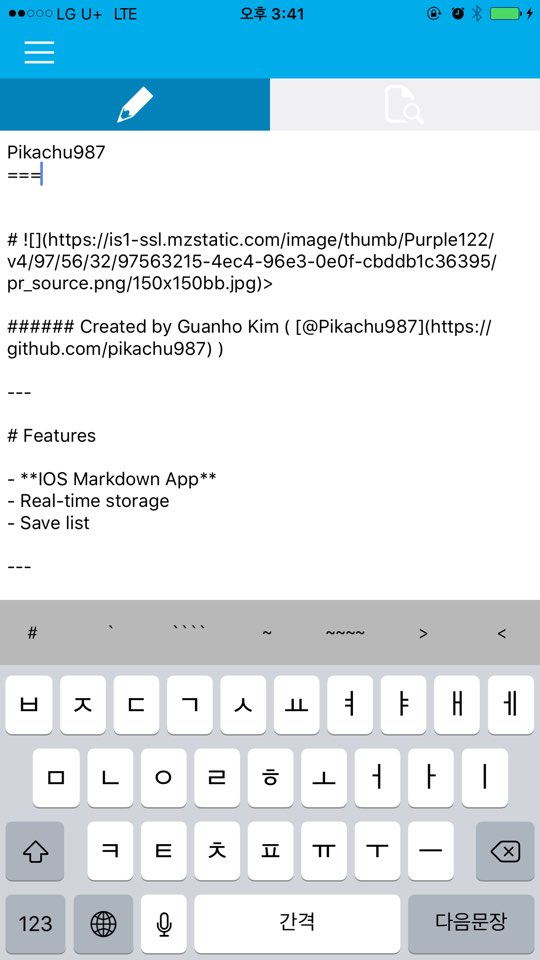
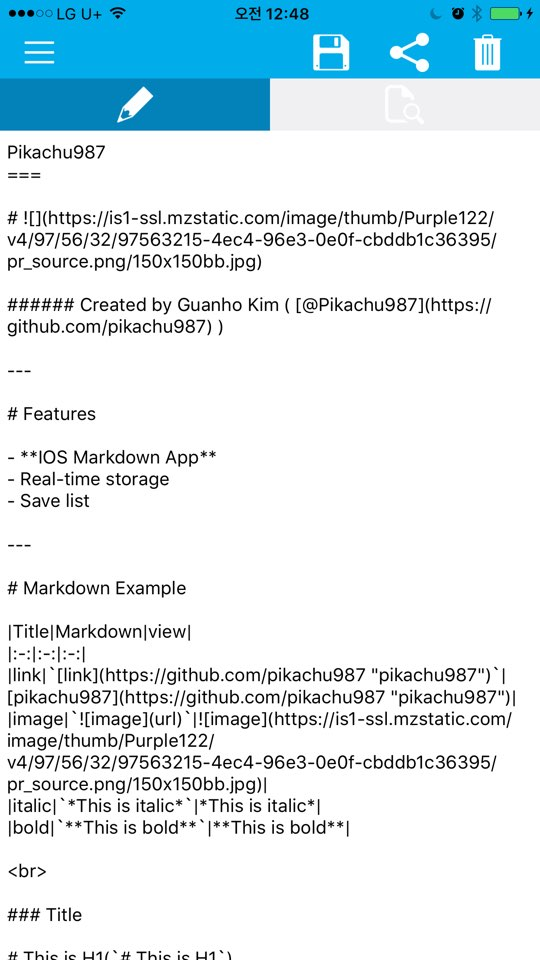
Update

diff --git a/index.md b/index.md
@@ -149,13 +149,14 @@ __Markdown: 마크다운 앱__
 ● 마크다운을 적을수 있다.<br>
 ● 마크다운을 적기 편하게 키보드 상단에 여러가지 버튼이 있다.<br>
 ● 마크다운을 적으면서 마크다운 미리보기를 할 수 있다.<br>
-● 마크다운을 저장할 수 있다.(개발중)<br>
-● 마크다운을 공유할 수 있다.(개발중)<br>
+● 마크다운을 저장할 수 있다.<br>
+● 마크다운을 공유할 수 있다.<br>
 
 `이미지`
 
 <a href="https://pikachu987.github.io/cv/app/individual/markdown/1.jpeg"><img src="https://pikachu987.github.io/cv/app/individual/markdown/1.jpeg" width="15%"></a>&nbsp;&nbsp;
 <a href="https://pikachu987.github.io/cv/app/individual/markdown/2.jpeg"><img src="https://pikachu987.github.io/cv/app/individual/markdown/2.jpeg" width="15%"></a>&nbsp;&nbsp;
+<a href="https://pikachu987.github.io/cv/app/individual/markdown/3.jpeg"><img src="https://pikachu987.github.io/cv/app/individual/markdown/3.jpeg" width="15%"></a>&nbsp;&nbsp;
 
 
 `언어`
